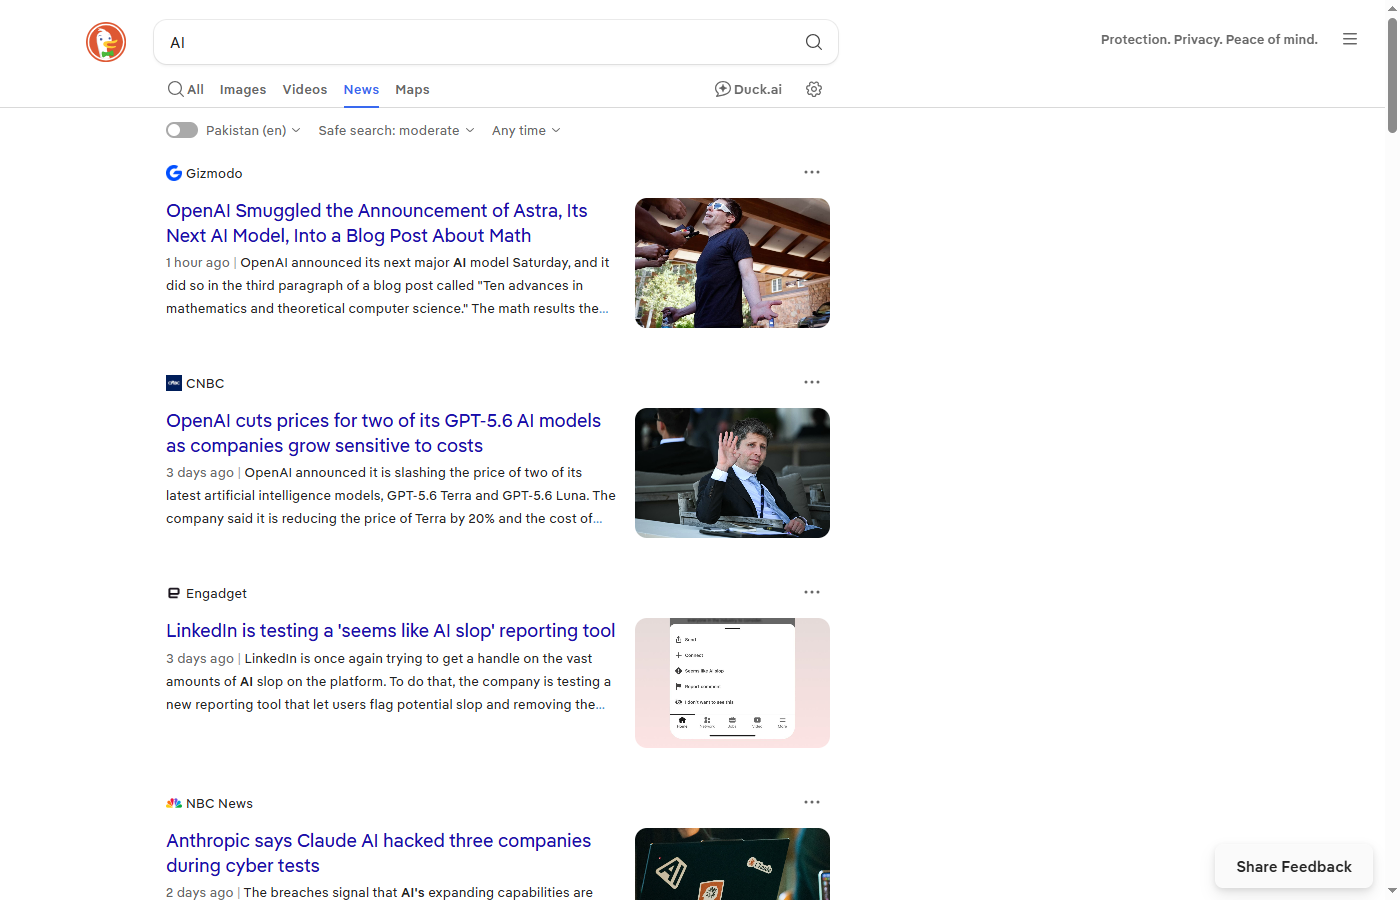
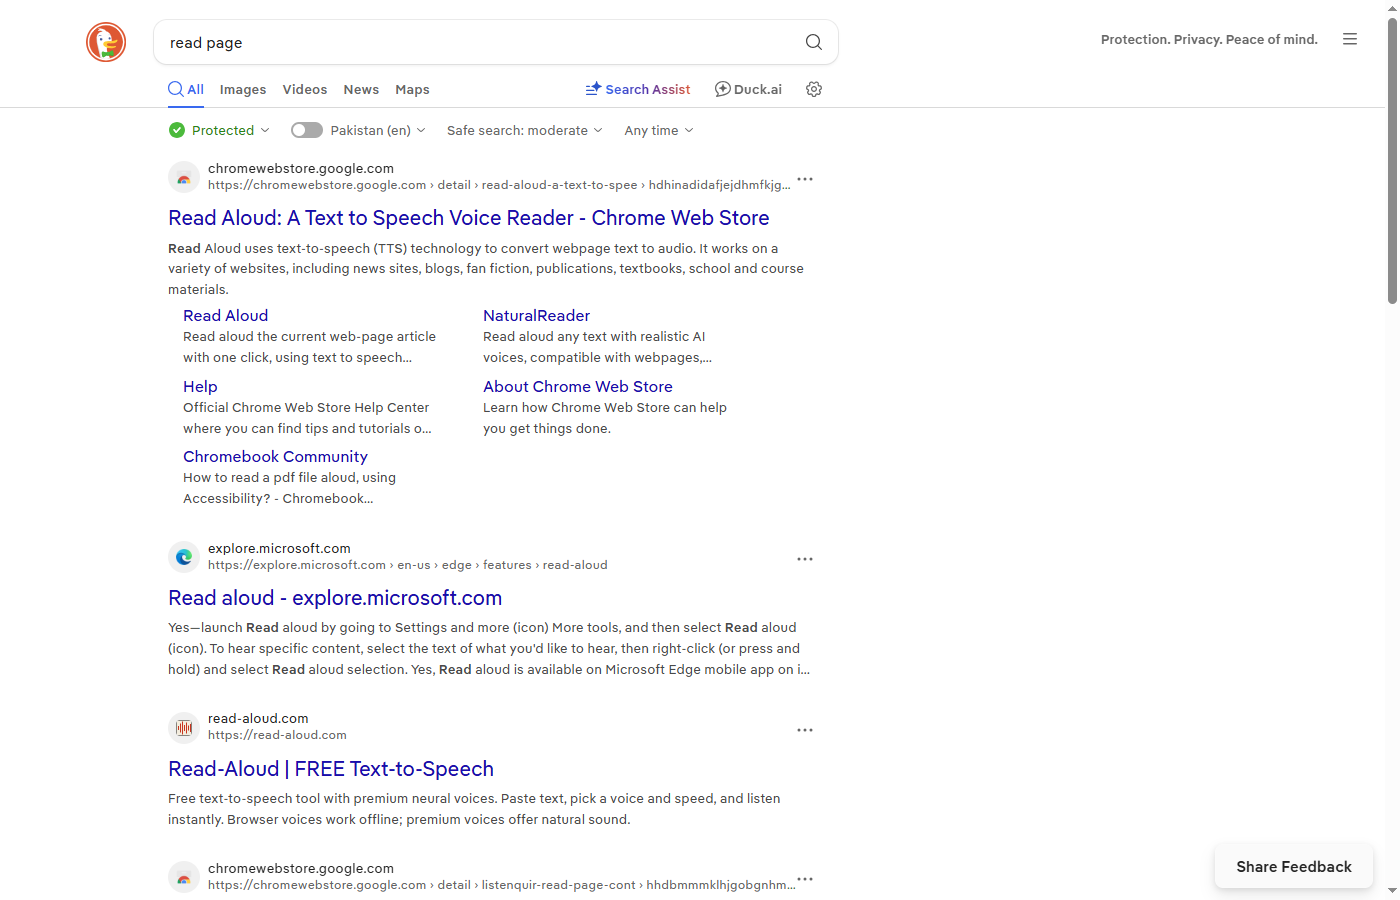
updated agin

diff --git a/app/ai/browser_planner.py b/app/ai/browser_planner.py
@@ -247,158 +247,6 @@ Output
 
 ==============================
 
------------------------------
-
-User:
-Read page
-
-Output
-
-{
-    "steps":[
-        {
-            "tool":"browser_extract_text",
-            "selector":"body"
-        }
-    ]
-}
-
------------------------------
-
-User:
-Read heading
-
-Output
-
-{
-    "steps":[
-        {
-            "tool":"browser_extract_text",
-            "selector":"h1"
-        }
-    ]
-}
-
------------------------------
-
-User:
-Read paragraph
-
-Output
-
-{
-    "steps":[
-        {
-            "tool":"browser_extract_text",
-            "selector":"p"
-        }
-    ]
-}
-
------------------------------
-
-User:
-What is page title
-
-Output
-
-{
-    "steps":[
-        {
-            "tool":"browser_title"
-        }
-    ]
-}
-
------------------------------
-
-User:
-Current URL
-
-Output
-
-{
-    "steps":[
-        {
-            "tool":"browser_current_url"
-        }
-    ]
-}
-
------------------------------
-
-User:
-Take screenshot
-
-Output
-
-{
-    "steps":[
-        {
-            "tool":"browser_screenshot"
-        }
-    ]
-}
-
------------------------------
-
-User:
-Refresh page
-
-Output
-
-{
-    "steps":[
-        {
-            "tool":"browser_refresh"
-        }
-    ]
-}
-
------------------------------
-
-User:
-Go back
-
-Output
-
-{
-    "steps":[
-        {
-            "tool":"browser_back"
-        }
-    ]
-}
-
------------------------------
-
-User:
-Go forward
-
-Output
-
-{
-    "steps":[
-        {
-            "tool":"browser_forward"
-        }
-    ]
-}
-
------------------------------
-
-User:
-Close browser
-
-Output
-
-{
-    "steps":[
-        {
-            "tool":"browser_close"
-        }
-    ]
-}
 User Request:
 
 {command}
@@ -465,4 +313,4 @@ User Request:
 
             return {
                 "steps": []
-            }
+            }    
